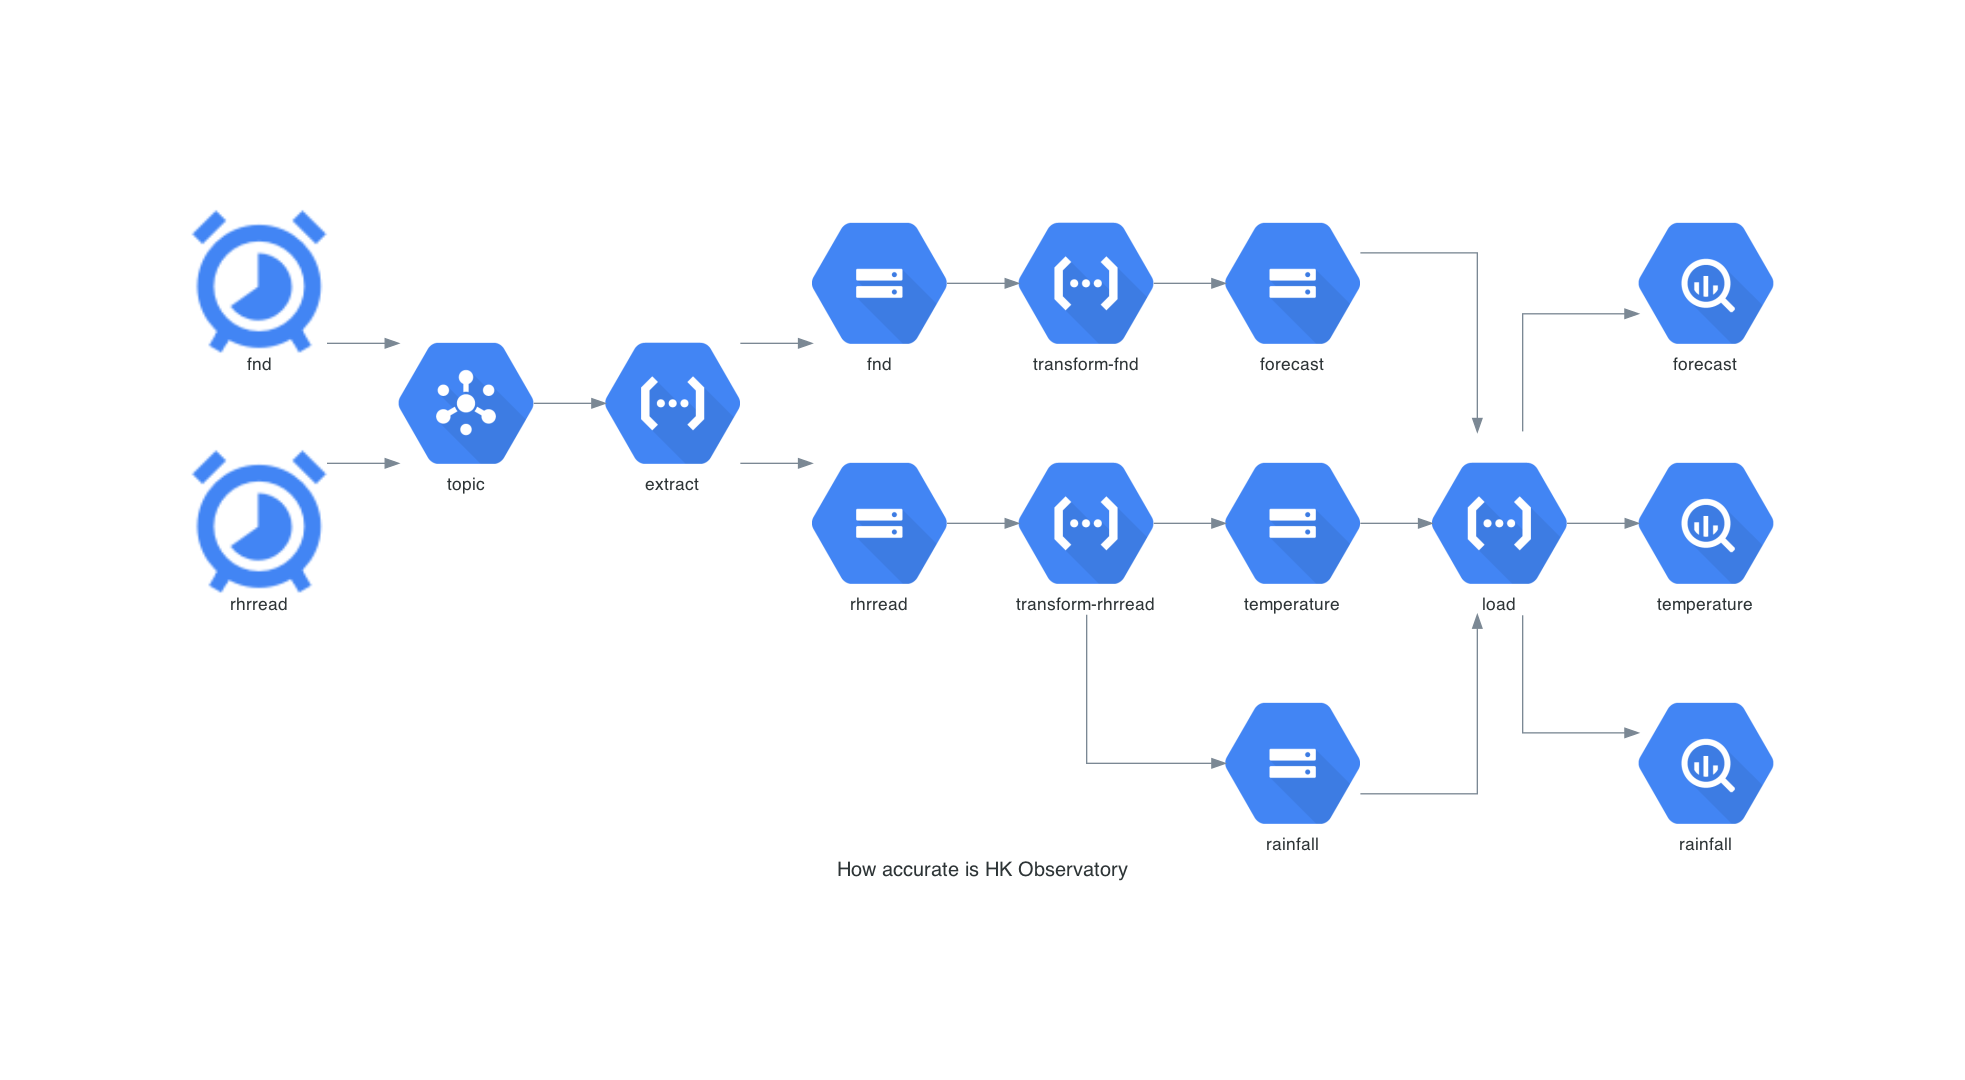
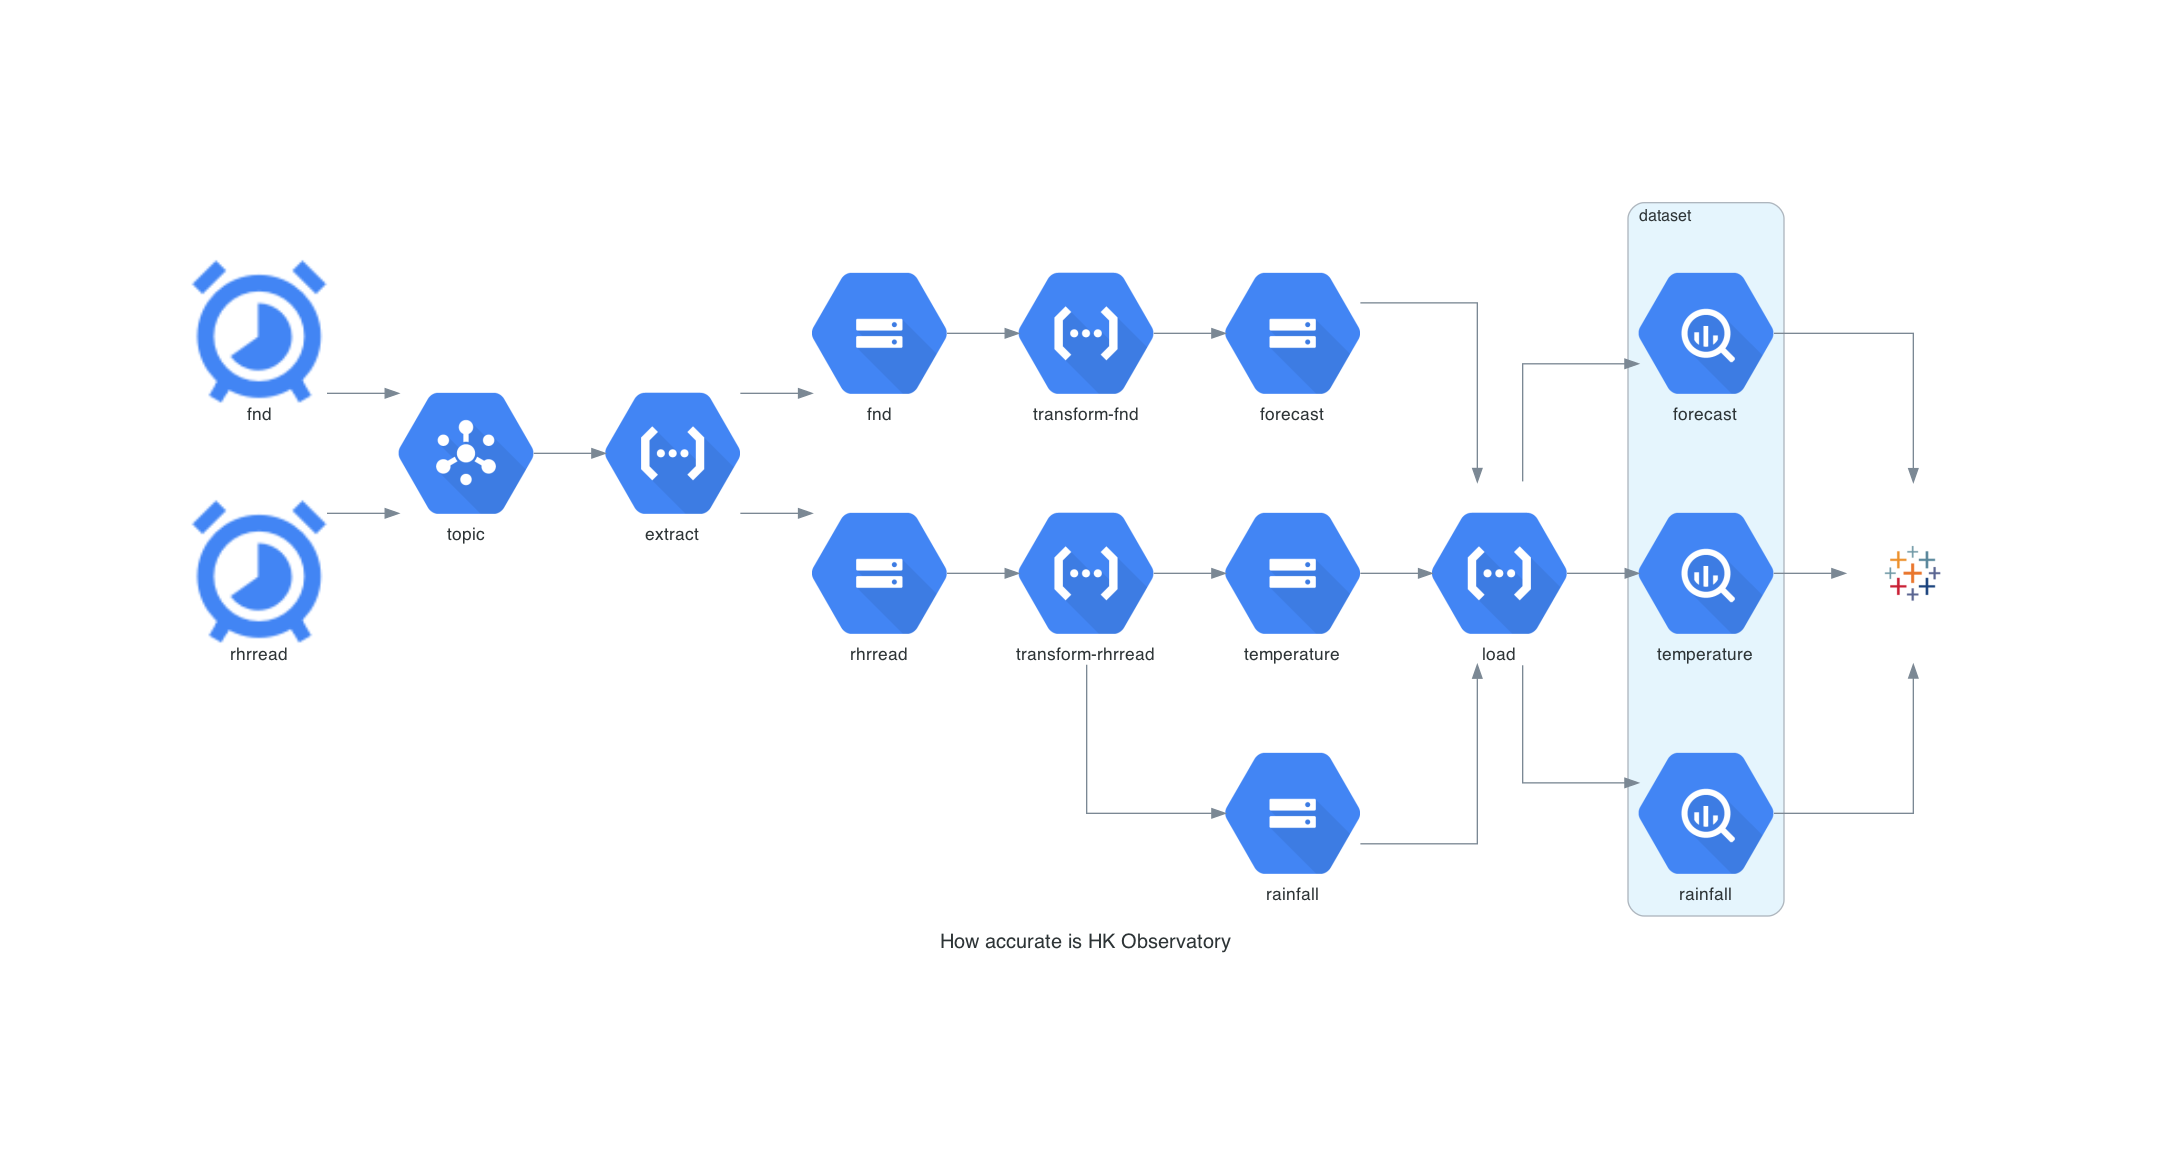
Add connection to Tableau and remove force_destroy attributes

diff --git a/diagram.py b/diagram.py
@@ -1,8 +1,9 @@
-from diagrams import Diagram
+from diagrams import Cluster, Diagram
 from diagrams.gcp.analytics import Bigquery, Pubsub
 from diagrams.gcp.compute import Functions
 from diagrams.gcp.devtools import Scheduler
 from diagrams.gcp.storage import Storage
+from diagrams.onprem.analytics import Tableau
 
 with Diagram("How accurate is HK Observatory"):
     extract = Functions("extract")
@@ -25,8 +26,11 @@ with Diagram("How accurate is HK Observatory"):
         >> load
     )
 
-    load >> [
-        Bigquery("forecast"),
-        Bigquery("temperature"),
-        Bigquery("rainfall"),
-    ]
+    with Cluster("dataset"):
+        tables = [
+            Bigquery("forecast"),
+            Bigquery("temperature"),
+            Bigquery("rainfall"),
+        ]
+
+    load >> tables >> Tableau()
